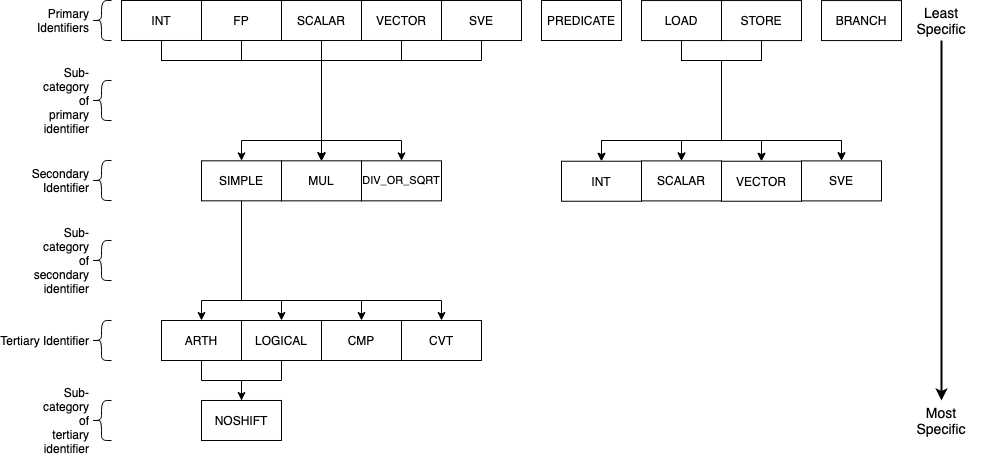
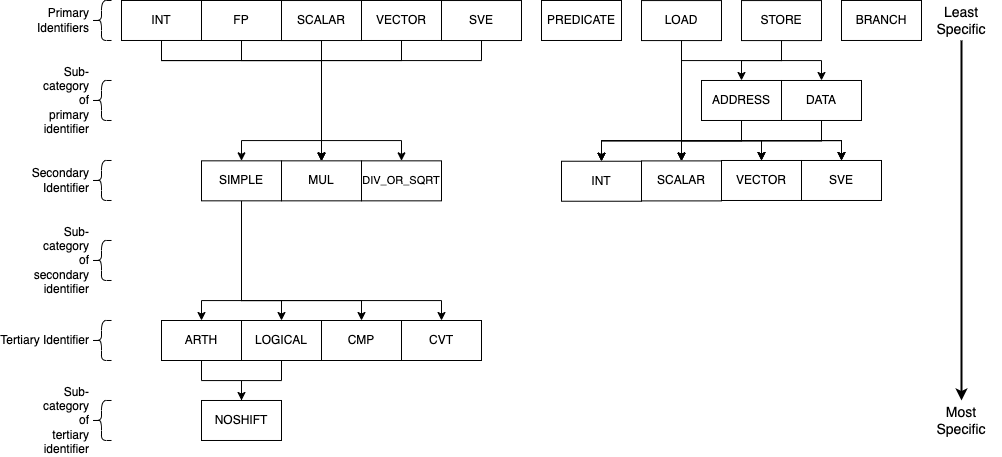
Updates made to docs to reflect most recent feature additions and developments

diff --git a/docs/sphinx/developer/components/pipeline/components.rst b/docs/sphinx/developer/components/pipeline/components.rst
@@ -24,10 +24,17 @@ When an instruction is committed, any destination operands are committed to the 
 
 Only a specific number of instructions can be committed per cycle as defined by the model.
 
+.. _microOpCommit:
+
+commitMicroOps
+**************
+
+When a macro-op is split, all created micro-ops can only be committed when all are ready to do so. These micro-ops firstly enter a "waiting commit" state and once all associated micro-ops are in said state, they can then enter a "ready to commit" state and commit in the standard manner. The ``commitMicroOps`` function facilitates this state transition whilst the ``WritebackUnit`` sets the "waiting commit" state.
+
 LoadStoreQueue
 --------------
 
-The ``LoadStoreQueue`` class models the load/store queue (LSQ) common to many out-of-order architectures. This structure contains in-order references to all in-flight load and store instructions, which it uses to ensure memory operations occur in program order.
+The ``LoadStoreQueue`` class models the load/store queue (LSQ) common to many out-of-order architectures. This structure contains in-order references to all in-flight load and store instructions, in a ``loadQueue_`` and ``storeQueue_`` respectively, which it uses to ensure memory operations occur in program order.
 
 To accommodate multiple varieties of LSQ, this model provides two modes: **split**, representing an LSQ with two discrete independently sized queues for holding loads and stores respectively, and **combined**, representing an LSQ with a single shared queue that holds both loads and stores.
 
@@ -36,7 +43,7 @@ To accommodate multiple varieties of LSQ, this model provides two modes: **split
 
 .. _lsq-restrict:
 
-To enforce restrictions such as the number of loads/stores requests permitted per cycle, a secondary request queue, ``requestQueue_``, is utilised. This queue holds all distinct requests made by in-flight loads and stores, with some instructions having multiple entries due to multiple addresses requiring access. Additionally, the entries in this queue can only be processed after a defined number of cycles. This value is the pre-defined latency for a memory operation beyond that of the fixed L1 cache access latency. An internal clock is used to facilitate this delayed removal from the ``requestQueue_``.
+To enforce restrictions such as the number of loads/stores requests permitted per cycle, secondary request queues, ``requestLoadQueue_`` and ``requestStoreQueue_``, are utilised. These queues hold all distinct requests made by in-flight loads and stores with each entry being a ``requestEntry`` struct, containing a queue of addresses to access and the instruction performing the requests. Additionally, the entries in this queue can only be processed after a defined number of cycles. This value is the pre-defined latency for a memory operation beyond that of the fixed L1 cache access latency. An internal clock is used to facilitate this delayed removal from the queues and requests are grouped by such clock cycles within the queues themselves.
 
 All load and store instructions should be added to the LSQ in program order; this typically happens during the last in-order stage of an out-of-order model. In the default SimEng pipeline units, ``RenameUnit`` performs this task.
 
@@ -45,7 +52,7 @@ Loads
 
 When initially added to the LSQ, loads are considered pending: they exist primarily to hold their place in the load queue, and aren't considered for memory order logic.
 
-Once the addresses have been calculated for the load, the LSQ should be informed that the load operation can now be started. At this point, all the addresses the load instruction has generated are placed into the ``requestQueue_``. Once an entry is selected in the ``requestQueue_``, the LSQ will send the required data over the memory interface as a read request. When these requests receive responses, during a later cycle, the data will be passed to the relevant load instructions and the load flagged as complete.
+Once the addresses have been calculated for the load, the LSQ should be informed that the load operation can now be started. At this point, each address has two outcomes, either generate a request to be sent to the memory interface or wait until a store that conflicts with the access is retired. If a conflict is detected between an active store and the current load, the address is placed into a ``conflictionMap_``. Once the store retires, the data will be forwarded to the load and will resume operation as if the initial request for that address had been completed. A conflict is found if the youngest (program order) active store with the same address accessed is storing data of size equal to or greater than that read by the load. If no conflict is found for the address, a ``requestEntry`` is generated and placed into the ``requestLoadQueue_``. Once an entry is selected in the ``requestLoadQueue_``, the LSQ will send the required data over the memory interface as a read request. When these requests receive responses, during a later cycle, the data will be passed to the relevant load instruction. Once all data has been received, the load is flagged as complete.
 
 Once a completion slot is available, the load will be executed, the results broadcast to the supplied operand-forwarding handle, and the load instruction written into the completion slot. The load instruction will remain in the load queue until it commits.
 
@@ -55,25 +62,25 @@ Once a completion slot is available, the load will be executed, the results broa
 Stores
 ******
 
-As with loads, stores are considered pending when initially added to the LSQ.
+As with loads, stores are considered pending when initially added to the LSQ. Whilst like load operations the generation of addresses to be accessed must occur before commitment, an additional operation of supplying the data to be stored must also occur. The ``supplyStoreData`` function facilitates this by placing the data to be stored within the ``storeQueue_`` entry of the associated store. Once the store is committed, the data is taken from the ``storeQueue_`` entry.
 
-The generation of store instruction write requests are carried out after its commitment. The reasoning for this design decision is as followed. With SimEng supporting speculative execution, processed store instruction may come from an incorrectly speculated branch direction and will inevitably be removed from the pipeline. Therefore, it is important to ensure any write requests are valid, with respect to speculative execution, as the performance cost of reversing a completed write request is high.
+The generation of store instruction write requests are carried out after its commitment. The reasoning for this design decision is as followed. With SimEng supporting speculative execution, processed store instruction may come from an incorrectly speculated branch direction and will inevitably be removed from the pipeline. Therefore, it is important to ensure any write requests are valid, concerning speculative execution, as the performance cost of reversing a completed write request is high.
 
-Store write requests are placed into the ``requestQueue_`` similar to load read requests. Unlike load instructions read requests, the write requests are submitted to the memory interface prior to being selected from the ``requestQueue_``. Since store instruction write requests are appended to the ``requestQueue_`` after their commitment, we can be confident that the data to be stored and the order in which it is occurring is correct.
+Store write requests are placed into the ``requestStoreQueue_`` similar to load read requests. Unlike load instructions read requests, the write requests are submitted to the memory interface before being selected from the ``requestStoreQueue_``. Since store instruction write requests are appended to the ``requestStoreQueue_`` after their commitment, we can be confident that the data to be stored and the order in which it is occurring is correct.
 
-To minimise simulation errors, write requests are sent to the memory interface early. These errors derived from write requests occurring too late after a store instruction's commitment. Rarely, such latencies caused following load instructions to read incorrect data.
+To minimise simulation errors, write requests are sent to the memory interface early. These errors are derived from write requests occurring too late after a store instruction's commitment. Rarely, such latencies cause following load instructions to read incorrect data.
 
-Although the write request has been submitted, it continues to occupy an entry in the ``requestQueue_`` to simulate the contention of LSQ resources between load and store operations (e.g. the number of permitted requests per cycle). Once selected from the ``requestQueue_``, the write request is simply deleted with no additional logic.
+Although the write request has been submitted, it continues to occupy an entry in the ``requestStoreQueue_`` to simulate the contention of LSQ resources between load and store operations (e.g. the number of permitted requests per cycle). Once selected from the ``requestStoreQueue_``, the write request is simply deleted with no additional logic.
 
-Concluding the store instruction request generation, a memory-order violation check takes place: all loads in the LSQ are searched in ascending age order to see if their addresses overlap with the store. If any are discovered, a flush is triggered to re-execute the invalid load instruction and everything after it. 
+Concluding the store instruction request generation, a memory-order violation check takes place: all loads in the LSQ are searched in ascending age order to see if their addresses overlap with the store. If any are discovered, a flush is triggered to re-execute the invalid load instruction and everything after it. Additionally, it is at this point that any conflict between the store and loads is resolved through the forwarding of the data being stored.
 
 Ticking
 *******
 
-The LSQ is expected to be ticked once per clock cycle. This tick is used to select requests from the ``requestQueue_``, handle responses to memory read requests, and finish execution of completed load instructions.
+The LSQ is expected to be ticked once per clock cycle. This tick is used to select requests from the ``requestLoadQueue_`` and/or ``requestStoreQueue_``, handle responses to memory read requests, and finish the execution of completed load instructions.
 
 Request selection
-    Requests are removed from the ``requestQueue_`` in a queue-like fashion and processed. Adherence to model defined restrictions, such as the per cycles bandwidth or the number of store/load requests permitted per cycle, are maintained during removal.
+    Requests are removed from the ``requestLoadQueue_`` and/or ``requestStoreQueue_`` in a queue-like fashion and processed. The selection of a load or a store is based on which request is ready earlier with the result of a tie favouring the store operation. Adherence to model defined restrictions, such as the per cycles bandwidth or the number of store/load requests permitted per cycle, are maintained during removal.
 
 Handling responses
     The memory interface is scanned for completed read requests. If any are present, the relevant load instruction is found and the data supplied, marking the load as complete.

diff --git a/docs/sphinx/developer/components/pipeline/units.rst b/docs/sphinx/developer/components/pipeline/units.rst
@@ -54,13 +54,11 @@ The ``DecodeUnit`` class models the decode stage of a processor pipeline, and is
 Behaviour
 *********
 
-Each cycle, the decode unit will read macro-ops from the input buffer, and split them into a stream of ``Instruction`` objects.
+Each cycle, the decode unit will read macro-ops from the input buffer, and split them into a stream of ``Instruction`` objects or micro-ops. These ``Instruction`` objects are passed into an internal buffer.
 
-.. Note:: The DecodeUnit is currently only capable of handling macro-ops that split into a single instruction: https://github.com/UoB-HPC/SimEng/issues/14
+Once all macro-ops in the input buffer have been passed into the internal ``Instruction`` buffer or the ``Instruction`` buffer size exceeds the size of the output buffer, ``Instruction`` objects are checked for any trivially identifiable branch mispredictions (i.e., a non-branch predicted as a taken branch), and if discovered, the branch predictor is informed and a pipeline flush requested.
 
-The now-decoded instructions are checked for any trivially identifiable branch mispredictions (i.e., a non-branch predicted as a taken branch), and if discovered, the branch predictor is informed and a pipeline flush requested.
-
-The cycle ends when all macro-ops in the input buffer have been processed, or a misprediction is identified and all remaining macro-ops are flushed.
+The cycle ends when all ``Instruction`` objects in the internal buffer have been processed, or a misprediction is identified and all remaining ``Instruction`` objects are flushed.
 
 If the output buffer is stalled when the cycle begins, the decode unit will idle, perform no operation, and will flag its input buffer as having stalled, until the output is no longer stalled.
 
@@ -161,7 +159,7 @@ While normal data processing instructions are simply executed, some instruction 
     Address generation is performed, before passing the instruction to the unit's supplied load handling function. Unlike other instructions, load instructions **are not** written to the output buffer, as execution cannot occur until the memory read concludes. It is the responsibility of the load handling function to ensure that the instruction is executed and results broadcast once the loaded data is available.
 
   Stores
-    Address generation is performed, and the instruction is executed to determine the memory data to be written. The instruction is passed to the unit's supplied store handler.
+    Address generation is performed, and the instruction is executed to determine the memory data to be written. The instruction is passed to the unit's supplied store handler which typically facilitates the passing of to-be stored data once the store operation retires.
 
   Branches
     The instruction is executed, and queried to determine whether or not the results match the branch prediction originally associated with the instruction. If a misprediction is encountered, the branch predictor is informed, and a flush is raised to instruct the core to reset the program counter to the correct address and remove all incorrectly speculated instructions from the core.
@@ -178,3 +176,5 @@ Behaviour
 *********
 
 Each cycle, the unit will read instructions from the input buffer, and retrieve any results generated during execution. All results are written to the supplied register file set, and the instructions are flagged as ready to commit. As the unit has no output buffer, instructions are discarded once writeback is complete.
+
+.. Note:: (Relevant for outoforder models) AT the writeback stage, Instructions created from a macro-op split are placed into a ``waitingCommit`` state and inform the ``ReorderBuffer`` that the instruction is ready to commit once all other associated micro-ops are. More information can be found :ref:`here <microOpCommit>`.

diff --git a/docs/sphinx/developer/arch/supported/aarch64.rst b/docs/sphinx/developer/arch/supported/aarch64.rst
@@ -23,7 +23,8 @@ The logic held in ``src/lib/arch/aarch64/Instruction_decode.cc`` is primarily as
 - ``isDivideOrSqrt_``, is a divide or square root operation.
 - ``isPredicate_``, writes to a predicate register.
 - ``isLoad_``, is a load operation.
-- ``isStore_``, is a store operation.
+- ``isStoreAddress_``, is a store address generation operation.
+- ``isStoreData_``, is a store data operation.
 - ``isBranch_``, is a branch operation.
 - ``isRET_``, is a return instruction.
 - ``isBL_``, is a branch and link instructions.
@@ -56,6 +57,43 @@ Additional information
 The ``FP`` primary identifier is a placeholder to denote both the ``SCALAR`` and ``VECTOR`` primary identifiers such that, amongst the other combinations, ``FP_SIMPLE_ARTH`` expands to be ``SCALAR_SIMPLE_ARTH`` and ``VECTOR_SIMPLE_ARTH``. In some cases it was unnecessary and inconvenient to separate ``SCALAR`` and ``VECTOR`` operations within configuration options, therefore, this instruction group option was provided to solve the issue.
 
 When setting the latencies for instruction groups, within the :ref:`Latencies <config-latencies>` section of the configurable options, the inheritance between instruction groups is taken into account (e.g. the ``VECTOR`` group latency assignment would be inherited by all ``VECTOR_*`` groups). If multiple entries could assign a latency value to an instruction group, the option with the least levels of inheritance to the instruction group takes priority. As an example, take the groups ``INT_SIMPLE`` and ``INT_SIMPLE_ARTH``. ``INT_SIMPLE_ARTH_NOSHIFT`` inherits from both of these groups but because ``INT_SIMPLE_ARTH`` has one less level of inheritance to traverse, ``INT_SIMPLE_ARTH_NOSHIFT`` inherits ``INT_SIMPLE_ARTH`` latency values.
+
+Instruction Splitting
+*********************
+
+Instruction splitting is performed within the ``decode`` function in ``MicroDecoder.cc``. A macro-op is taken into the ``decode`` function and one or more micro-ops, taking the form of SimEng ``Instruction`` objects, are returned. The following instruction splitting is supported:
+
+- Load pair for X/W/S/D/Q registers.
+  
+  - Post-index splits into two load operations and an add operation.
+
+  - Pre-index splits into an add operation and two load operations.
+
+  - Signed offset splits into two load operations.
+  
+- Load for X/W/B/H/S/D/Q registers.
+  
+  - Post-index splits into a load operation and an add operation.
+
+  - Pre-index splits into an add operation and a load operation.
+  
+- Store pair for X/W/S/D/Q registers.
+  
+  - Post-index splits into two store address generation operations, two store data operations, and an add operation.
+
+  - Pre-index splits into an add operation, two store address generation operations, and two store data operations.
+
+  - Signed offset splits into two store address generation operations and two store data operations.
+  
+- Store for X/W/B/H/S/D/Q registers.
+  
+  - Post-index splits into a store address generation operation, a store data operation, and an add operation.
+
+  - Pre-index splits into an add operation, a store address generation operation, and a store data operation.
+
+  - Signed offset splits into a store address generation operation and a store data operation.
+  
+Each micro-operation opcode is set to one of the options available in the ``MicroOpcode`` namespace. This value is later used to determine the ``Instruction_address.cc`` and ``Instruction_execute.cc`` logic of the micro-operation.
 
 Adding instructions
 -------------------

diff --git a/docs/sphinx/developer/concepts/instructions.rst b/docs/sphinx/developer/concepts/instructions.rst
@@ -30,15 +30,22 @@ Once an instruction has received all of the necessary input values, it becomes r
 Address generation
 ******************
 (Loads and stores only).
+
 If an instruction has reported itself as a load or store, once ready to execute it will be instructed to generate the set of addresses it will access. While stores may execute immediately, loads are considered pending until the model supplies a corresponding piece of data for each generated address, and may only execute once all data is available.
+
+Store data
+**********
+(Stores only).
+
+In addition to generating addresses when a store is executed, it will pass the to-be stored data to the ``LoadStoreQueue`` unit for use when the store instruction retires and the memory write request is sent off to the memory interface.
 
 Executed
 ********
 Executing an instruction performs the relevant operation using the input values, and makes the results available to the model, along with the registers these results should be written to. As instructions have no access to memory, the execution step for stores is expected to produce a corresponding piece of data to write to each address generated, using the input values supplied; these address/data pairs are presented to the model for writing to memory. For branches, the calculated address will also be available.
 
 .. _macroops:
-..
-    Macro-Ops
-    ---------
 
-    A SimEng instruction represents what are typically referred to as "micro-ops" (also known as µops or uops): a single conceptual hardware operation. To support more complex instruction sets where individual instructions perform multiple operations, some SimEng components deal with "macro-ops", which are conceptual objects that may be split into a stream of SimEng ``Instruction`` objects. As a result, individual machine-code instructions may become multiple SimEng ``Instruction`` objects when processed.
+Macro-Ops
+---------
+
+A SimEng instruction represents what are typically referred to as "micro-ops" (also known as µops or uops): a single conceptual hardware operation. To support more complex instruction sets where individual instructions perform multiple operations, some SimEng components deal with "macro-ops", which are conceptual objects that may be split into a stream of SimEng ``Instruction`` objects. As a result, individual machine-code instructions may become multiple SimEng ``Instruction`` objects when processed.

diff --git a/docs/sphinx/developer/arch/abstract.rst b/docs/sphinx/developer/arch/abstract.rst
@@ -16,9 +16,7 @@ Architectures are expected to support querying the following information:
 Pre-Decoding
 ************
 
-The primary role of the ``Architecture`` class is to enable the conversion of arbitrary bytes of instruction memory into ``Instruction`` objects capable of performing operations. This process is referred to as *pre-decoding*, as it is responsible for grouping bytes into "macro ops" representing individual machine-code instructions, which in real hardware would be decoded later into one or more instructions ("micro-ops"). In SimEng, all the decoding is expected to be performed up-front: the generated macro-op is simply a vector of micro-ops.
-
-.. Note:: At this time, SimEng does not support the logic to convert macro-ops into micro-ops thus it is currently a 1:1 mapping.
+The primary role of the ``Architecture`` class is to enable the conversion of arbitrary bytes of instruction memory into ``Instruction`` objects capable of performing operations. This process is referred to as *pre-decoding*, as it is responsible for grouping bytes into "macro ops" representing individual machine-code instructions, which in real hardware would be decoded later into one or more instructions ("micro-ops"). In SimEng, all the decoding is expected to be performed up-front: the generated macro-op is simply a vector of micro-ops. First, the macro-op is decoded and then, using an architecture-specific decoder, micro-ops are generated that replace the macro-op where necessary.
 
 Exception Handling
 ******************

diff --git a/docs/sphinx/user/configuring_simeng.rst b/docs/sphinx/user/configuring_simeng.rst
@@ -31,8 +31,16 @@ Simulation-Mode
 Clock-Frequency
     The clock frequency, in GHz, of the processor being modelled.
 
+Timer Frequency
+    This dictates the frequency in MHz that the CPU's internal counter timer is updated. 
+
+    i.e. For models based on an Arm ISA, this dictates how often the Virtual Counter Timer system register is updated to the number of cycles completed. This value is then accessible to programmers through ``mrs x0 CNTVCT_el0``.
+
 Fetch-Block-sizes
     The size, in bytes, of the block fetched from the instruction cache.
+
+Micro-Operations
+    Whether to enable instruction splitting for pre-defined Macro Operations or not.
 
 Vector-Length
     The vector length used by instructions belonging to ARM's Scalable Vector Extension. Supported vector lengths are those between 128 and 2048 in increments of 128.
@@ -117,8 +125,14 @@ This section contains the options used to configure SimEng's simple L1-cache. Th
 Access-Latency
     The cycle latency of L1 cache access.
 
-Bandwidth
-    The number of bytes permitted to be loaded and/or stored per cycle.
+Exclusive
+    If set to true, only one type of memeory access (read or write) can be performed per cycle.
+
+Load-Bandwidth
+    The number of bytes permitted to be loaded per cycle.
+
+Store-Bandwidth
+    The number of bytes permitted to be stored per cycle.
 
 Permitted-Requests-Per-Cycle
     The number of load and store requests permitted per cycle.

diff --git a/docs/sphinx/developer/developerInfo.rst b/docs/sphinx/developer/developerInfo.rst
@@ -48,8 +48,7 @@ Currently, there are CircleCI and Jenkins configurations that will automatically
 test that each pull request builds and passes the test suite for multiple compilers 
 before being merged. Those compilers include:
 
-- GCC 7/8/9
-- CLANG 5/7
+- GCC 7/8/9/10
 - ARMCLANG 20
 
 .. todo::
